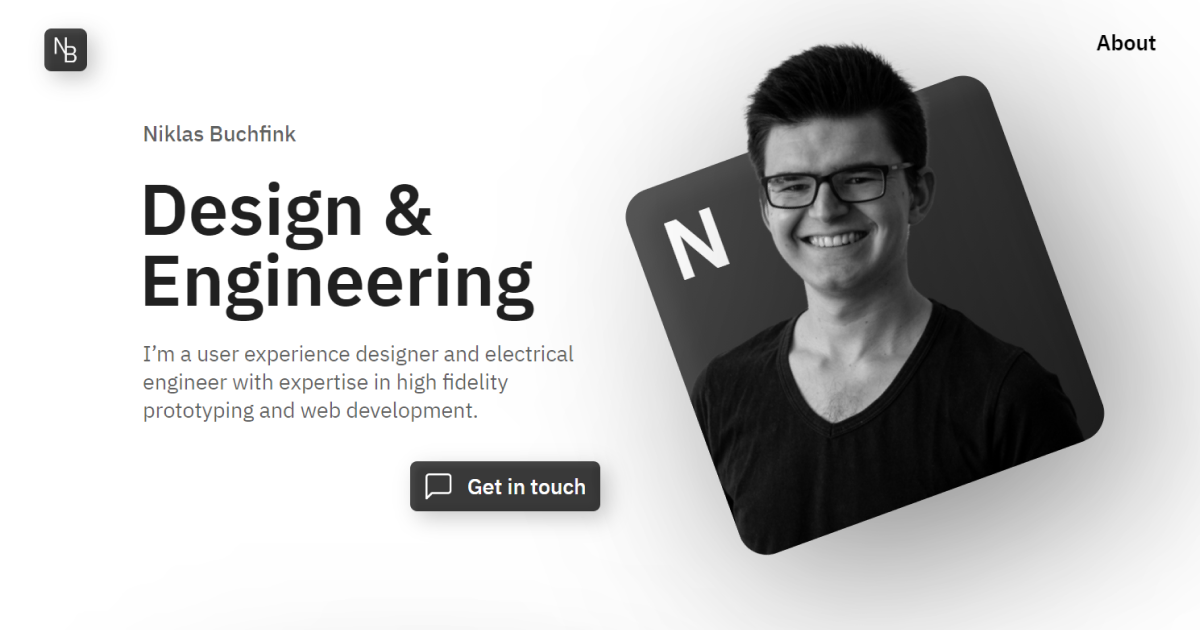
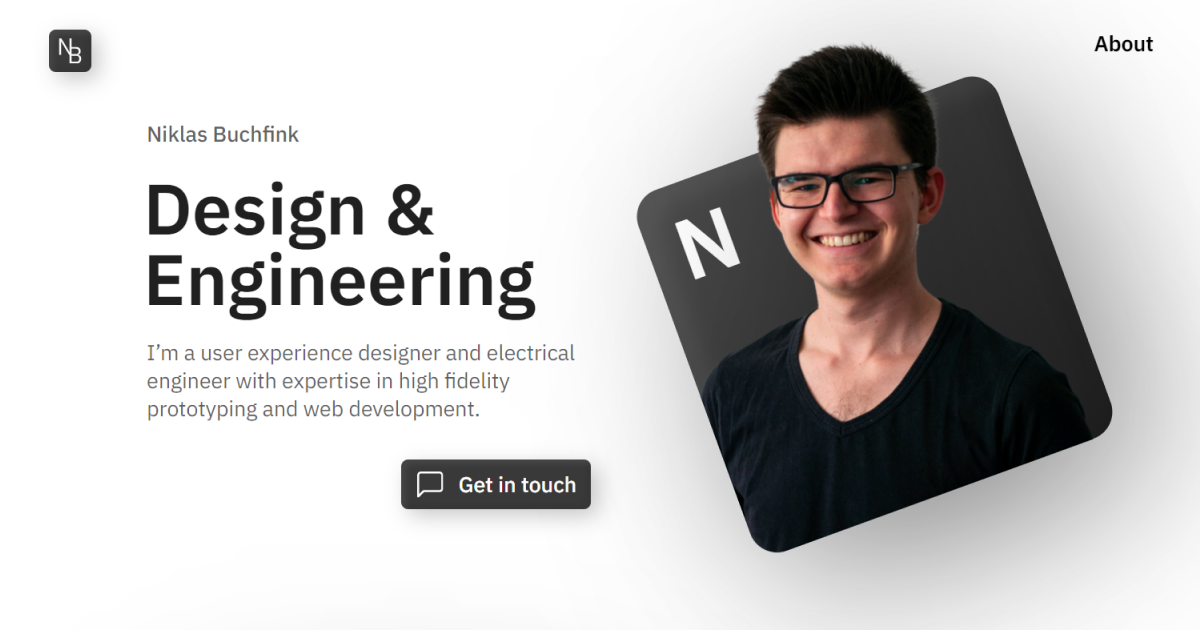
Hover Effects

diff --git a/frontend/components/atoms/CardImage.vue b/frontend/components/atoms/CardImage.vue
@@ -1,5 +1,5 @@
 <template>
-  <div class="cardImage">
+  <div class="cardImage" data-tilt data-tilt-scale="1.05">
     <div class="cardShape" :style="colorGradient">
       <span> {{letter}} </span>
       <img
@@ -35,12 +35,16 @@ export default {
 
 <style lang="scss" scoped>
 .cardImage {
+  transform-style: preserve-3d;
   width: 100%;
   @media screen and (max-width: $max_width_xs) {
     margin-top: 2rem;
   }
   @media screen and (max-width: $max_width_xxs) {
     width: 90%;
+  }
+  .js-tilt-glare {
+    border-radius: 2rem;
   }
   .cardShape {
     position: relative;
@@ -72,6 +76,7 @@ export default {
       }
     }
     img {
+      transform: translateZ(50px);
       position: absolute;
       object-fit: cover;
       @include shadow-mockup;

diff --git a/frontend/nuxt.config.js b/frontend/nuxt.config.js
@@ -35,7 +35,10 @@ export default {
   ],
 
   // Plugins to run before rendering page: https://go.nuxtjs.dev/config-plugins
-  plugins: [],
+  plugins: [
+    // https://github.com/micku7zu/vanilla-tilt.js
+    '~/plugins/vanilla-tilt.js'
+  ],
 
   // Auto import components: https://go.nuxtjs.dev/config-components
   components: [
@@ -98,4 +101,8 @@ export default {
       ignoredElements: ['r-grid', 'r-cell'],
     }
   },
+
+  static: {
+    prefix: false
+  }
 }

diff --git a/frontend/pages/about/index.vue b/frontend/pages/about/index.vue
@@ -261,6 +261,7 @@ p {
   .freeTimeImage {
     max-height: 20rem;
     height: 25vw;
+    transition: 0.3s;
     @media screen and (max-width: $max_width_s) {
       margin-top: 2rem;
       max-height: 28rem;
@@ -269,6 +270,9 @@ p {
     @media screen and (max-width: $max_width_xs) {
       height: 60vw;
     }
+  }
+  .freeTimeImage:hover {
+    opacity: 0.9;
   }
 }
 </style>

diff --git a/frontend/components/molecules/Footer.vue b/frontend/components/molecules/Footer.vue
@@ -52,6 +52,9 @@ export default {}
         margin-right: 1rem;
       }
     }
+    *:hover {
+      text-decoration: underline;
+    }
   }
   .lawLinks {
     display: flex;
@@ -64,6 +67,9 @@ export default {}
       @media screen and (max-width: $max_width_xs) {
         margin-right: 1rem;
       }
+    }
+    *:hover {
+      text-decoration: underline;
     }
   }
 }

diff --git a/frontend/components/atoms/ChatButton.vue b/frontend/components/atoms/ChatButton.vue
@@ -18,6 +18,7 @@ export default {}
   border-radius: $box-radius;
   width: auto;
   color: $color-white;
+  transition: 0.3s;
   .chatIcon {
     margin-right: 1rem;
     height: 2rem;
@@ -27,5 +28,8 @@ export default {}
     background-size: auto auto;
     background-position: center center;
   }
+}
+.chatButton:hover {
+  opacity: 0.9;
 }
 </style>

diff --git a/frontend/assets/scss/mixins/_shapes.scss b/frontend/assets/scss/mixins/_shapes.scss
@@ -6,7 +6,7 @@
 }
 
 @mixin shadow-card () {
-  box-shadow: 3.125rem 3.125rem 12.5rem rgba($rgb-darkgray, 0.4),
+  box-shadow: 2rem 2rem 8em rgba($rgb-darkgray, 0.4),
   inset 1.25rem 1.25rem 1.25rem rgba($rgb-white, 0.06),
   inset -1.25rem -1.25rem 1.25rem rgba($rgb-black, 0.06);
 }

diff --git a/frontend/components/atoms/Logo.vue b/frontend/components/atoms/Logo.vue
@@ -18,5 +18,9 @@ export default {}
   background-repeat: no-repeat;
   background-position: center center;
   background-size: 1.75rem, auto;
+  transition: 0.3s;
+}
+.logo:hover {
+  opacity: 0.9;
 }
 </style>

diff --git a/frontend/components/molecules/Navigation.vue b/frontend/components/molecules/Navigation.vue
@@ -31,6 +31,10 @@ export default {
       margin-bottom: 0.5rem;
       @include menu;
       text-align: right;
+      transition: 0.3s;
+    }
+    li:hover {
+      opacity: 0.7;
     }
   }
 }

diff --git a/frontend/pages/index.vue b/frontend/pages/index.vue
@@ -42,7 +42,7 @@
 import { projectQuery, startpageQuery } from '~/graphql/query'
 
 export default {
- data() {
+  data() {
     return {
       projects: [],
       startpage: [],

diff --git a/frontend/components/atoms/ImageTile.vue b/frontend/components/atoms/ImageTile.vue
@@ -24,5 +24,6 @@ export default {
   @include shadow-image;
   border-radius: 2rem;
   background-size: cover;
+  background-position: center;
 }
 </style>

diff --git a/frontend/plugins/vanilla-tilt.js b/frontend/plugins/vanilla-tilt.js
@@ -1,0 +1,1 @@
+import VanillaTilt from 'vanilla-tilt';
